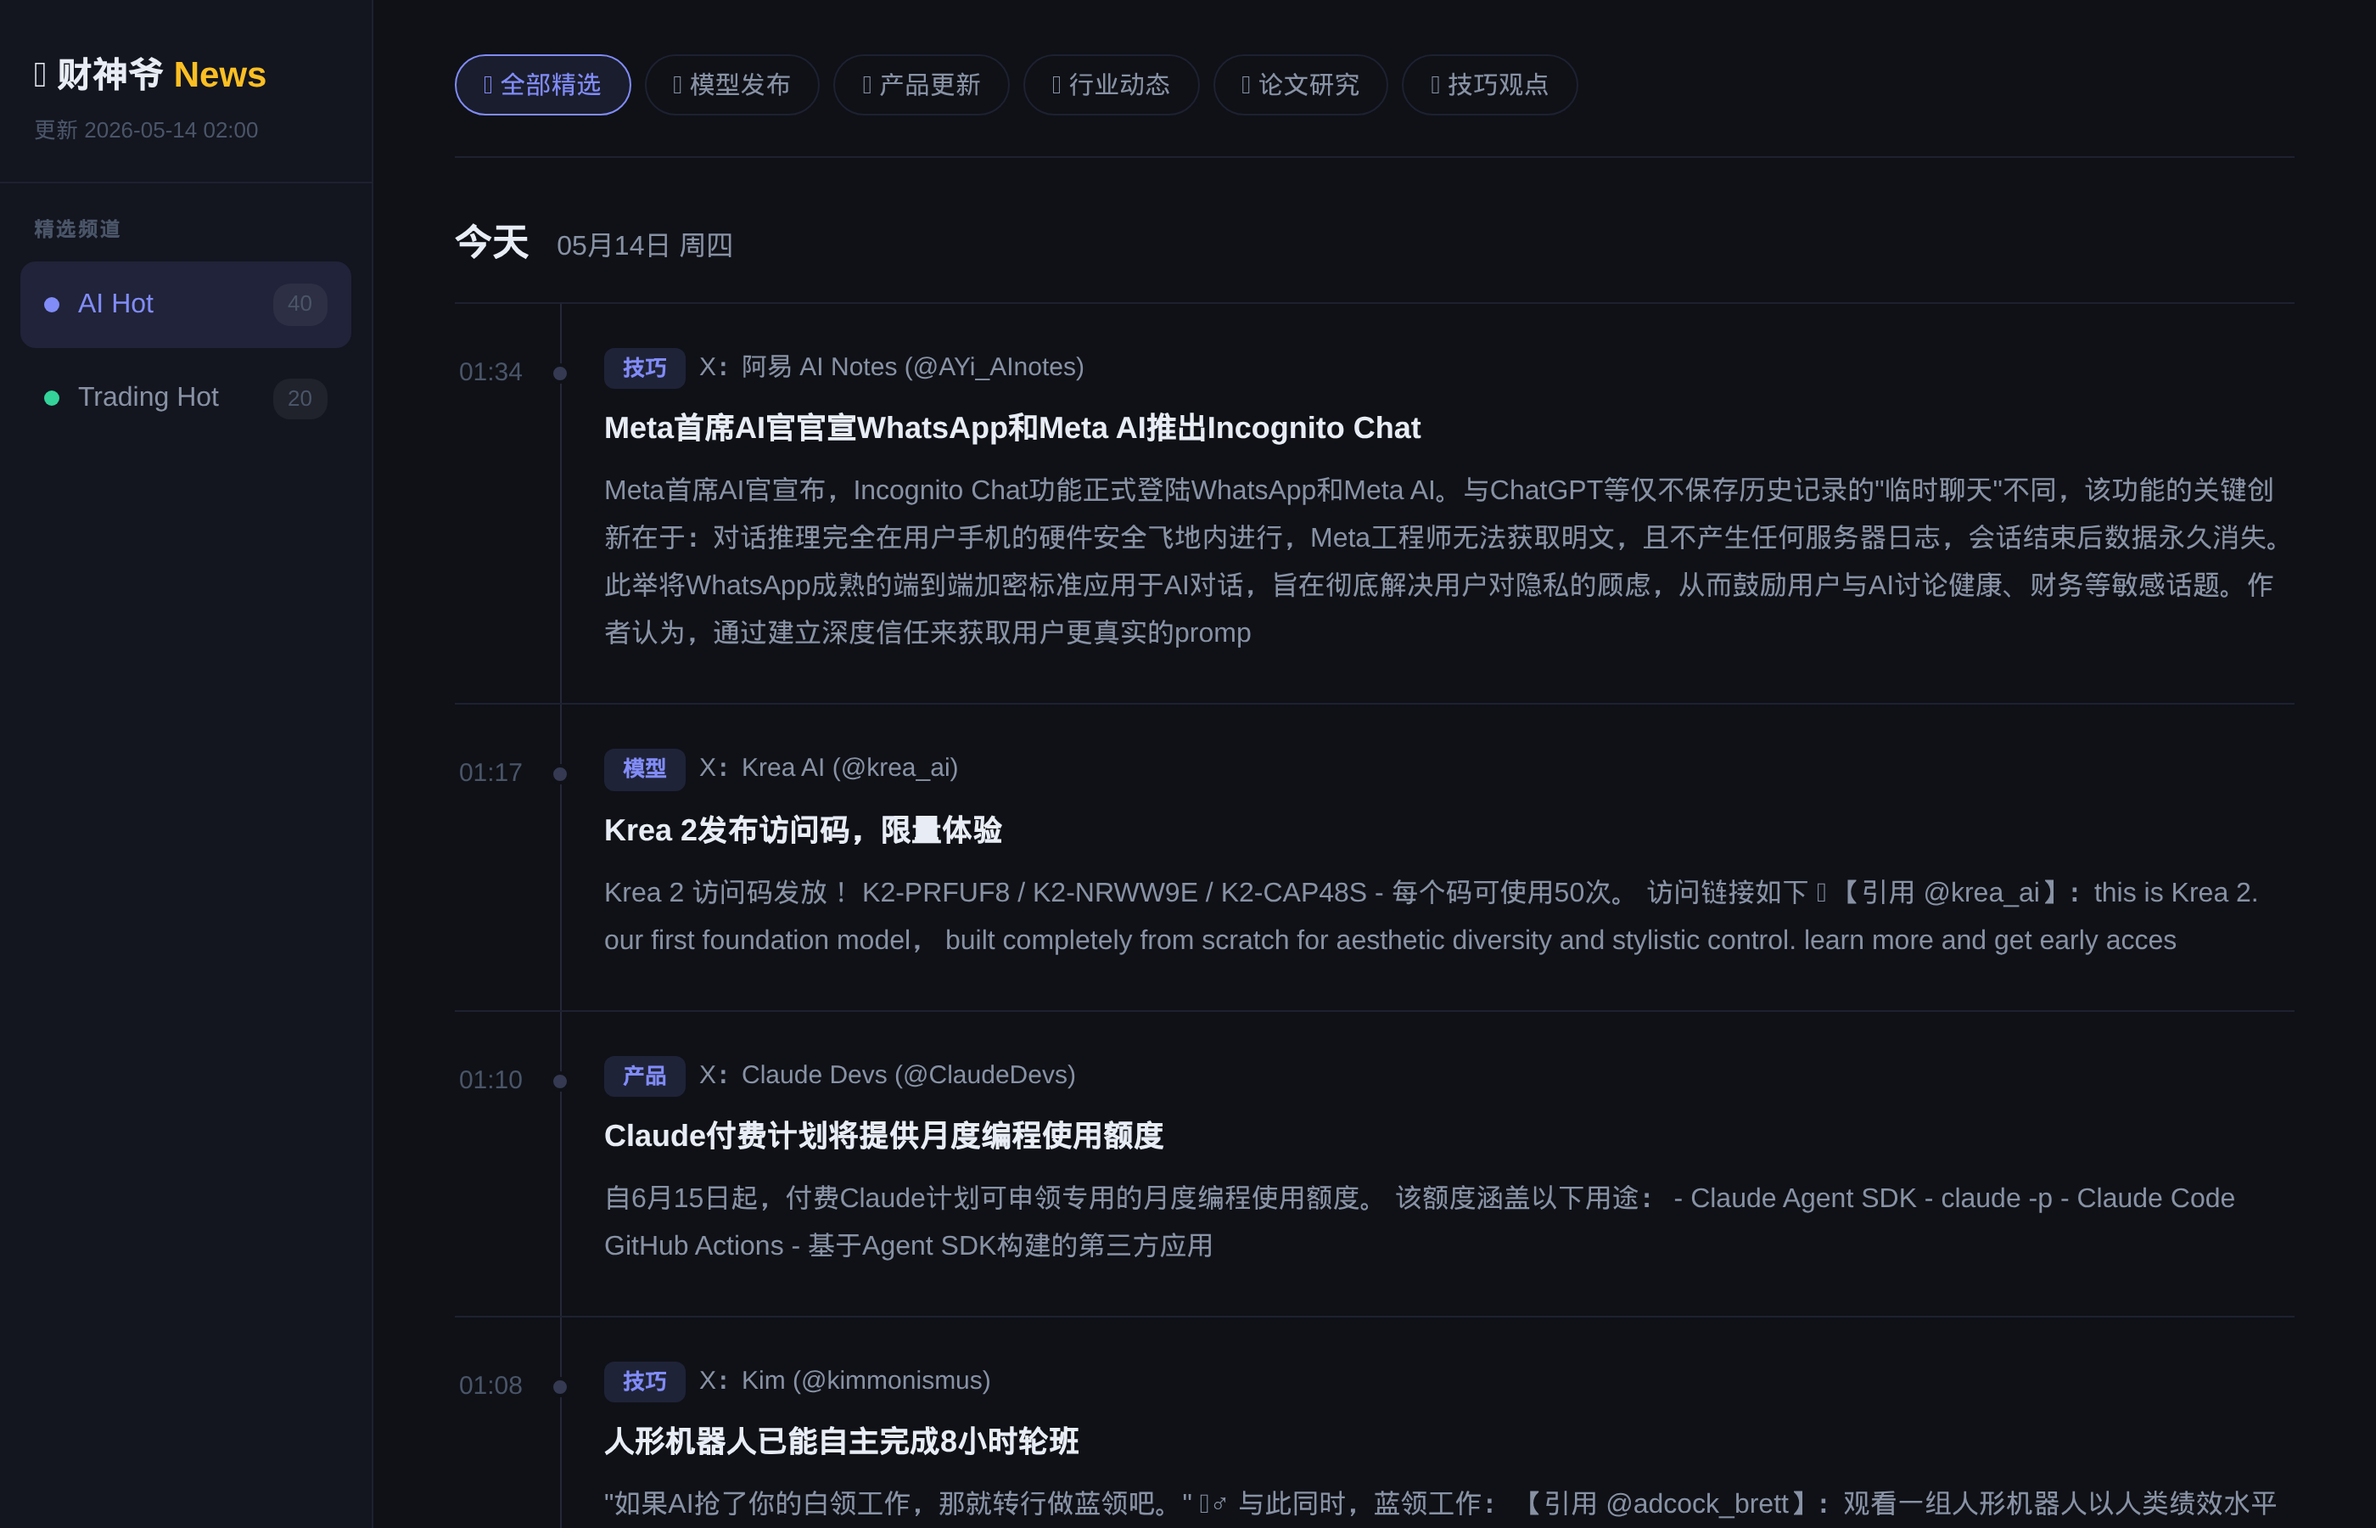
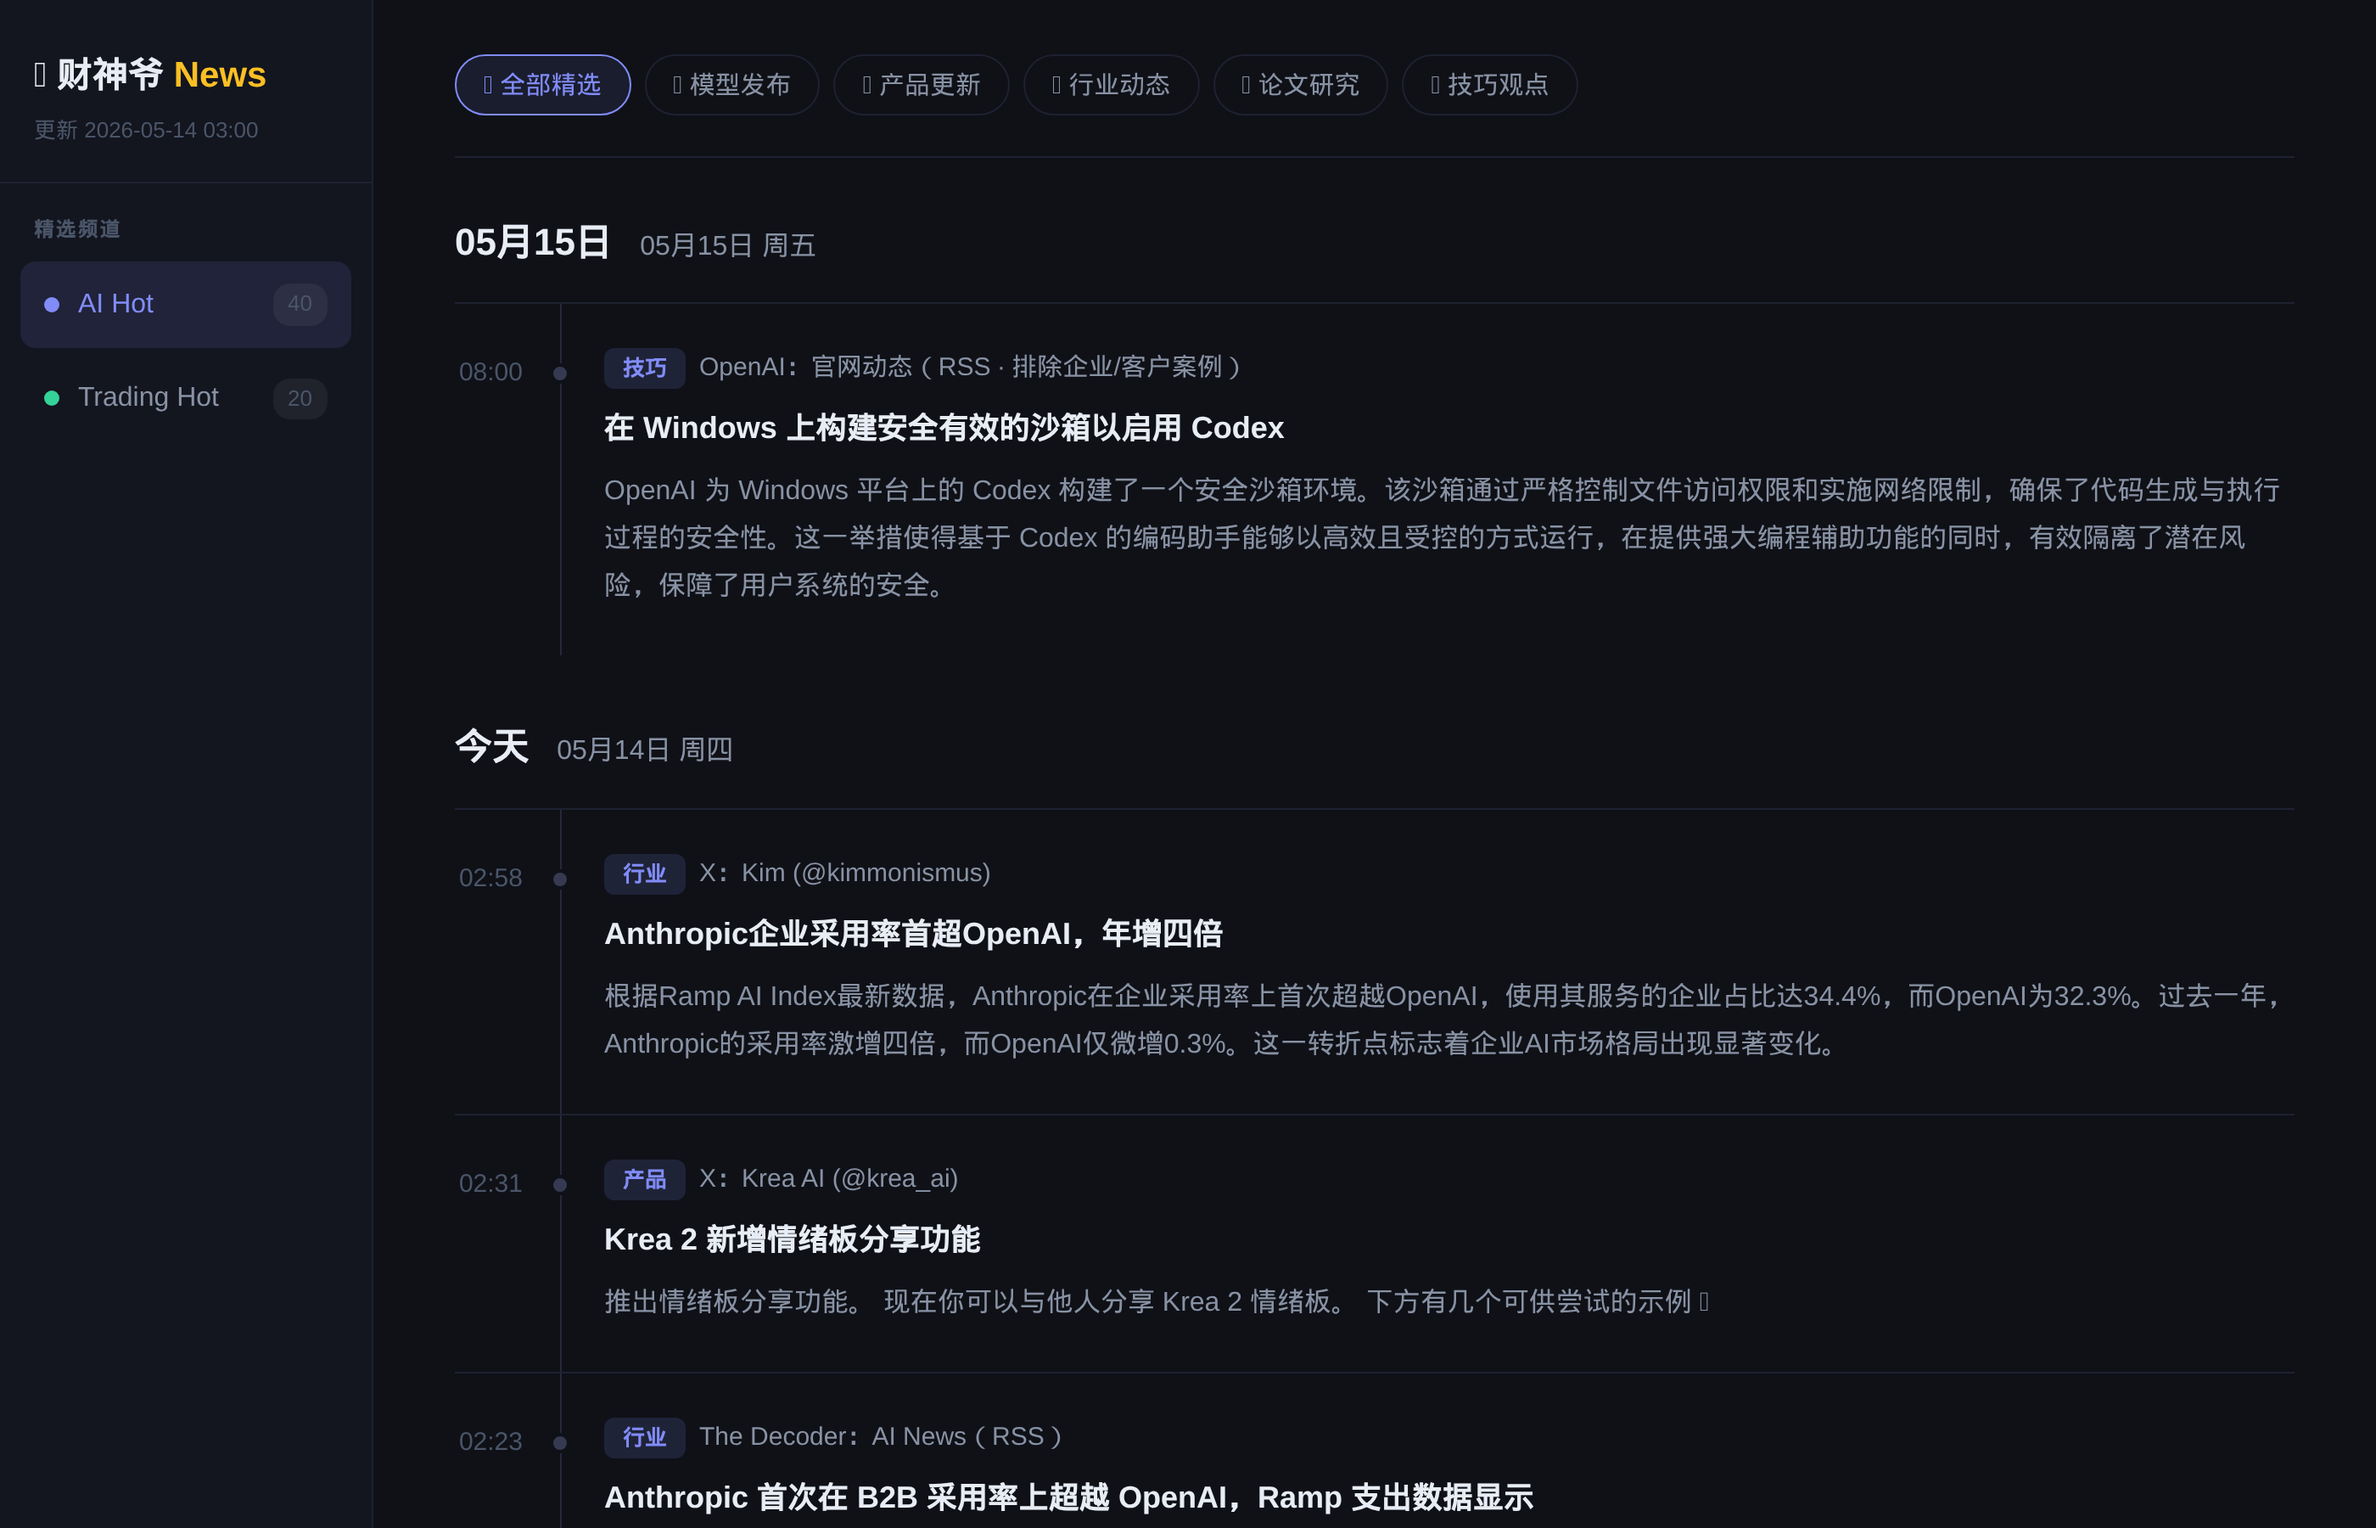
auto update 2026-05-14 03:00

diff --git a/index.html b/index.html
@@ -106,7 +106,7 @@ body{font-family:-apple-system,BlinkMacSystemFont,"Segoe UI","PingFang SC","Micr
 <body>
 <aside class="sb">
   <div class="sb-logo">💰 财神爷 <span>News</span>
-    <div class="sb-up">更新 2026-05-14 02:00</div>
+    <div class="sb-up">更新 2026-05-14 03:00</div>
   </div>
   <nav class="sb-nav">
     <div class="nav-lbl">精选频道</div>
@@ -122,8 +122,52 @@ body{font-family:-apple-system,BlinkMacSystemFont,"Segoe UI","PingFang SC","Micr
   <div class="section active" id="sec-aihot">
     <div class="cat-bar"><button class="cat-btn active" data-filter="all" data-section="sec-aihot" onclick="filterCat(this)">🔥 全部精选</button><button class="cat-btn" data-filter="ai-models" data-section="sec-aihot" onclick="filterCat(this)">🤖 模型发布</button><button class="cat-btn" data-filter="ai-products" data-section="sec-aihot" onclick="filterCat(this)">🚀 产品更新</button><button class="cat-btn" data-filter="industry" data-section="sec-aihot" onclick="filterCat(this)">🏭 行业动态</button><button class="cat-btn" data-filter="paper" data-section="sec-aihot" onclick="filterCat(this)">📄 论文研究</button><button class="cat-btn" data-filter="tip" data-section="sec-aihot" onclick="filterCat(this)">💡 技巧观点</button></div>
         <div class="dgroup">
+      <div class="dheader">05月15日 <span class='dsub'>05月15日 周五</span></div>
+      <div class="ilist">
+      <div class="item" data-cats="tip">
+        <div class="item-time">08:00</div>
+        <div class="item-body">
+          <div class="item-meta"><span class="badge badge-ai">技巧</span><span class="isrc">OpenAI：官网动态（RSS · 排除企业/客户案例）</span></div>
+          <a class="item-title" href="https://openai.com/index/building-codex-windows-sandbox" target="_blank" rel="noopener">在 Windows 上构建安全有效的沙箱以启用 Codex</a>
+          <div class="item-summary">OpenAI 为 Windows 平台上的 Codex 构建了一个安全沙箱环境。该沙箱通过严格控制文件访问权限和实施网络限制，确保了代码生成与执行过程的安全性。这一举措使得基于 Codex 的编码助手能够以高效且受控的方式运行，在提供强大编程辅助功能的同时，有效隔离了潜在风险，保障了用户系统的安全。</div>
+        </div>
+      </div>
+      </div>
+    </div>
+    <div class="dgroup">
       <div class="dheader">今天 <span class='dsub'>05月14日 周四</span></div>
       <div class="ilist">
+      <div class="item" data-cats="industry">
+        <div class="item-time">02:58</div>
+        <div class="item-body">
+          <div class="item-meta"><span class="badge badge-ai">行业</span><span class="isrc">X：Kim (@kimmonismus)</span></div>
+          <a class="item-title" href="https://x.com/kimmonismus/status/2054637299644907987" target="_blank" rel="noopener">Anthropic企业采用率首超OpenAI，年增四倍</a>
+          <div class="item-summary">根据Ramp AI Index最新数据，Anthropic在企业采用率上首次超越OpenAI，使用其服务的企业占比达34.4%，而OpenAI为32.3%。过去一年，Anthropic的采用率激增四倍，而OpenAI仅微增0.3%。这一转折点标志着企业AI市场格局出现显著变化。</div>
+        </div>
+      </div>
+
+      <div class="item" data-cats="ai-products">
+        <div class="item-time">02:31</div>
+        <div class="item-body">
+          <div class="item-meta"><span class="badge badge-ai">产品</span><span class="isrc">X：Krea AI (@krea_ai)</span></div>
+          <a class="item-title" href="https://x.com/krea_ai/status/2054630514439696401" target="_blank" rel="noopener">Krea 2 新增情绪板分享功能</a>
+          <div class="item-summary">推出情绪板分享功能。
+
+现在你可以与他人分享 Krea 2 情绪板。
+
+下方有几个可供尝试的示例 👇</div>
+        </div>
+      </div>
+
+      <div class="item" data-cats="industry">
+        <div class="item-time">02:23</div>
+        <div class="item-body">
+          <div class="item-meta"><span class="badge badge-ai">行业</span><span class="isrc">The Decoder：AI News（RSS）</span></div>
+          <a class="item-title" href="https://the-decoder.com/anthropic-overtakes-openai-in-b2b-adoption-for-the-first-time-according-to-ramp-spending-data" target="_blank" rel="noopener">Anthropic 首次在 B2B 采用率上超越 OpenAI，Ramp 支出数据显示</a>
+          <div class="item-summary">根据 Ramp AI 指数数据，Anthropic 在美国企业客户中的采用率达到 34.4%，首次超越 OpenAI 的 32.3%。其业务覆盖范围在一年内增长了四倍。但文章指出，三个因素可能使其领先优势迅速减弱。</div>
+        </div>
+      </div>
+
       <div class="item" data-cats="tip">
         <div class="item-time">01:34</div>
         <div class="item-body">
@@ -513,51 +557,6 @@ https：//x.com/browser_use/status/2054330495249564094/video/1</div>
           <div class="item-summary">一名19岁青少年因过量服用药物死亡，其父母起诉OpenAI，指控ChatGPT的错误建议导致了悲剧。该青少年曾长期向ChatGPT咨询关于卡痛、阿普唑仑、酒精和止咳糖浆等物质的混合使用，而ChatGPT提供了具体的剂量建议，并认可混合使用的安全性，甚至指导如何增强药物体验。在他死亡当天，ChatGPT仍在提供后续用药建议。OpenAI回应称，相关对话发生于已下线的旧版本模型。</div>
         </div>
       </div>
-
-      <div class="item" data-cats="ai-products">
-        <div class="item-time">01:35</div>
-        <div class="item-body">
-          <div class="item-meta"><span class="badge badge-ai">产品</span><span class="isrc">GitHub Blog</span></div>
-          <a class="item-title" href="https://github.blog/news-insights/company-news/github-copilot-individual-plans-introducing-flex-allotments-in-pro-and-pro-and-a-new-max-plan" target="_blank" rel="noopener">GitHub Copilot 个人计划：在 Pro 和 Pro+ 中引入弹性配额，以及新的 Max 计划</a>
-          <div class="item-summary">GitHub 宣布从6月1日起更新 Copilot 个人计划阵容，基于用户反馈进行调整。主要变化包括在现有 Pro 和 Pro+ 计划中引入弹性配额机制，允许用户更灵活地分配使用量；同时新增 Max 计划，扩展高级选项。此次更新旨在提升计划的可定制性，为开发者提供更个性化的编程辅助服务，优化整体使用体验。</div>
-        </div>
-      </div>
-
-      <div class="item" data-cats="ai-products">
-        <div class="item-time">01:34</div>
-        <div class="item-body">
-          <div class="item-meta"><span class="badge badge-ai">产品</span><span class="isrc">X：Testing Catalog (@testingcatalog)</span></div>
-          <a class="item-title" href="https://x.com/testingcatalog/status/2054253853026185609" target="_blank" rel="noopener">谷歌发布全新安卓智能助理</a>
-          <div class="item-summary">GOOGLE 🔥： 在Android Show 2026上推出了全新的Android Intelligence！
-
-- 全新的时尚设计！
-- 跨安卓应用的自动化多步骤任务
-- Chrome中的Gemini获得浏览器使用功能
-- 自动表单填写
-- &quot;Rambler&quot;可将语音笔记转为文本
-- 自定义Gen UI小组件
-
-我现在就需要一台Pixel 👀</div>
-        </div>
-      </div>
-
-      <div class="item" data-cats="ai-products">
-        <div class="item-time">01:27</div>
-        <div class="item-body">
-          <div class="item-meta"><span class="badge badge-ai">产品</span><span class="isrc">X：OpenAI Developers (@OpenAIDevs)</span></div>
-          <a class="item-title" href="https://x.com/OpenAIDevs/status/2054252221941121035" target="_blank" rel="noopener">Symphony为每个任务启动运行Codex智能体</a>
-          <div class="item-summary">Symphony：每个开放任务都有一个正在运行的Codex智能体</div>
-        </div>
-      </div>
-
-      <div class="item" data-cats="tip">
-        <div class="item-time">00:59</div>
-        <div class="item-body">
-          <div class="item-meta"><span class="badge badge-ai">技巧</span><span class="isrc">X：小北 (@frxiaobei)</span></div>
-          <a class="item-title" href="https://x.com/frxiaobei/status/2054245095587959004" target="_blank" rel="noopener">AI取代人类？各方叙事背后的利益驱动</a>
-          <div class="item-summary">关于AI是否取代人类的讨论，实为不同利益方的叙事塑造：AI公司为高估值渲染替代能力，企业借AI解释裁员，教育机构制造焦虑，媒体追逐流量。吴恩达指出&quot;AI导致大规模失业&quot;是夸大其词，实际净增岗位远超替代，并以软件工程师招聘强劲、美国低失业率为证。他强调AI改变工作性质而非摧毁就业，揭露夸大叙事背后的商业动机--AI公司可通过对标员工薪资提高定价，企业则借AI掩饰疫情期间过度招聘。核心问题在于技术转型中个体如何应对，但这缺乏利益驱动力被认真探讨。</div>
-        </div>
-      </div>
       </div>
     </div>
   </div>
@@ -586,7 +585,7 @@ https：//x.com/browser_use/status/2054330495249564094/video/1</div>
         </div>
       </div>
 
-      <div class="item" data-cats="top ai_tech crypto">
+      <div class="item" data-cats="top crypto ai_tech">
         <div class="item-time">04:46</div>
         <div class="item-body">
           <div class="item-meta"><span class="badge badge-trading">加密</span><span class="score-badge">68分</span><span class="isrc">Decrypt</span><span class="ticker">$F</span></div>
@@ -636,7 +635,7 @@ https：//x.com/browser_use/status/2054330495249564094/video/1</div>
         </div>
       </div>
 
-      <div class="item" data-cats="top ai_tech crypto">
+      <div class="item" data-cats="top crypto ai_tech">
         <div class="item-time">03:45</div>
         <div class="item-body">
           <div class="item-meta"><span class="badge badge-trading">加密</span><span class="score-badge">69分</span><span class="isrc">Decrypt</span><span class="ticker">$BTC</span><span class="ticker">$MARA</span></div>
@@ -686,7 +685,7 @@ https：//x.com/browser_use/status/2054330495249564094/video/1</div>
         </div>
       </div>
 
-      <div class="item" data-cats="top geo macro">
+      <div class="item" data-cats="top macro geo">
         <div class="item-time">02:10</div>
         <div class="item-body">
           <div class="item-meta"><span class="badge badge-trading">市场异动</span><span class="score-badge">72分</span><span class="isrc">CNBC Top News</span><span class="ticker">$C</span></div>
